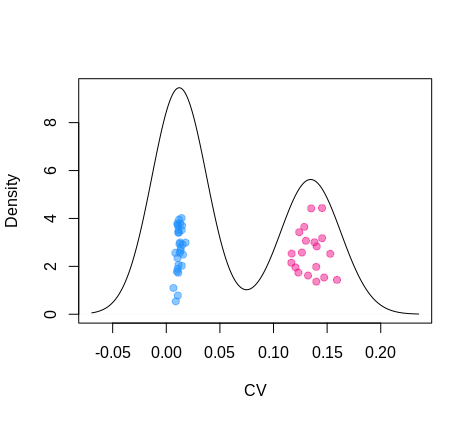
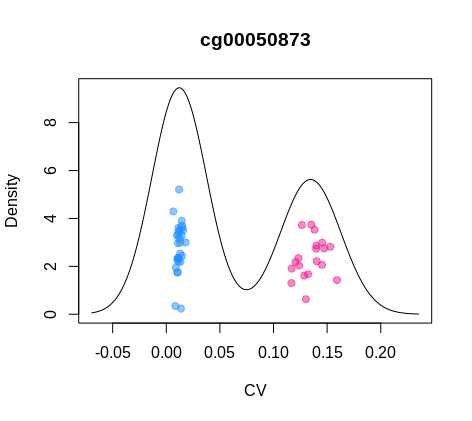
update

diff --git a/README.md b/README.md
@@ -12,10 +12,9 @@
 
 ## Why UMtools? What is the purpose of this tutorial?
 
-There are a large variety of R-packages available to analyze data from Illumina DNA methylation microarrays. In order to ease general accesibility, these tend to isolate the user from the raw data and the complex underlying analysis.
-As a result, many users deploy standard pipelines without examining the raw data or critically assessing each step. Unlike available alternatives, UMtools aims to focus on low-level analysis of Illumina DNA methylation microarray data.
+There are a large variety of R-packages available to analyze data from Illumina DNA methylation microarrays. In order to ease general accesibility, these tend to isolate the user from the raw data and the complex underlying analysis. As a result, many users deploy standard pipelines without examining the raw data or critically assessing each step. Unlike available alternatives, UMtools aims to focus on low-level analysis of Illumina DNA methylation microarray data.
 
-With this tutorial we aim to increase the technical accesibility of Illumina's DNA methylation microarrays. We believe that there is more potential stuck at the IDAT file that what is currently being exploited. Particularly, the standard deviation of fluorescence across beads offers huge information for those researchers aiming to understanding the measurement error of the platform.
+With this tutorial we aim to increase the technical accesibility of Illumina's DNA methylation microarrays. We believe that there is more potential at the level of the IDAT file than what is currently being exploited. Particularly, the standard deviation of fluorescence across beads offers huge information for those researchers aiming to understanding the measurement error of the platform.
 
 ## Tested on
 
@@ -62,7 +61,7 @@ help(gc)
 gc()
 ```
 
-## A word on the Beadchip microarray technology and 450K probes: 
+## A word on the Beadchip microarray technology and the probes on the 450K
 
 The microarray itself consists of a silica substrate with uniformly interspaced microwells.
 Hundreds of thousands of copies of a specific oligonucleotide lie on the surface of silica beads.
@@ -111,6 +110,9 @@ As well, some probes target SNPs, included for assessing sample mix-up (n = 65):
 Finally, there 473 orphan probes, placed on the array for unknown purposes. In total, that makes:
 
     473 + 25*2 + 40 + 848 + 46,289 * 2 + 89,187 * 2 + 350,036 = 622,399 probes
+
+
+## The 450K protocol
 
 
 
@@ -168,11 +170,11 @@ head(example$Quants)
 We particularly highlight the standard deviation of fluorescence intensities, as it is highly valuable and has rarely made it to the literature.
 
 
-## Extracting intensity matrices
+## Extracting fluorescence intensity matrices
 
-The minfi R-package is a massive library that has set the standards of quality in epigenomics. 
-However, its extensive use of S4-object oriented language can make it hard for users to find and repurpose functions.
-In this section, we have gathered together handy pieces of code for analysis of raw fluorescence intensities to ease the painstacking journey through minfi's dense documentation.
+The Bioconductor-based **minfi** library is a huge R-package that has set the standards of quality in methylomics data analysis. Though it contains a vast amount of code that could find other applications, its deep encapsullation via an S4 object-oriented implementation can make it hard for users to find and repurpose low-level functions, especially unexported functions, which are not even on the documentation. As a result, minfi is designed to run as a standarized pipeline rather than adaptable toolset.
+
+Given that UMtools depends on some basic processing operations already established in the minfi library, we have compiled in this tutorial some handy functions to ease the painstacking journey through minfi's dense documentation. 
 
 We firstly load all required libraries:
 
@@ -186,9 +188,10 @@ library(modes)
 library(EMCluster)
 library(dbscan)
 library(Sushi)
+library(UMtools)
 ```
 
-To read all IDAT files in a directory, we use the *read.metharray.exp* function. If additionally, we intend
+To read all IDAT files in a directory, we use the *minfi::read.metharray.exp* function. If additionally, we intend
 to read additional information such as the number of beads or the standard deviation of the fluorescence
 intensity channels, we will need to set the *extended* argument to TRUE.
 
@@ -318,7 +321,7 @@ M = import_bigmat("2020-06-19_M.txt", nThread = 4)
 
 ## Quickly importing phenotypes with GEOquery
 
-GEOquery allows to parse phenotypes from the GEO database in minimum number of lines of code:
+In addition, GEOquery allows to parse phenotypes from the GEO database in minimum number of lines of code:
 
 ```r
 setwd('/media/ben/DATA/Ben/1_evCpGs/data/aging_children/GSE104812_RAW/')
@@ -335,42 +338,45 @@ pheno <- pheno[match(pheno$GEO_ID, IDAT_IDs),] # Make sure samples in pheno are 
 
 ## UMtools in action
 
-UMtools was initially developed to characterise the effects of genetic artefacts on the fluorescence intensity signals of Illumina's DNA methylation microarrays. But we soon realized its potential for exploration of the behaviour of any probe.
+UMtools was initially developed to characterise the influence of genetic artefacts on the fluorescence intensity signals of Illumina's DNA methylation microarrays. But its use for exploring the behaviour of probes can be further extended to any probe.
 
-Moving from univariate methylation value to the bivariate the U/M plane offers not only a gain of resolution but also, the possibility to distinguish probe failure from intermediate methylation: when a probe fails, background fluorescence is acquired in both channels of roughly the same scale; as a result the ratio to the total intensity tends to 50 %. For example, this probe targets the Y-chromosome and hence fails in females given rise to beta-values tending towards 0.5:
+Moving from univariate methylation value to the bivariate the U/M plane not only offers a gain of resolution, but also the possibility to distinguish probe failure from intermediate methylation: when a probe fails, background fluorescence is acquired in both channels of roughly the same scale; as a result the ratio to the total intensity tends to 50 %. For example, the following probe targets the Y-chromosome and hence fails in females, giving rise to beta-values tending towards 0.5 (slightly skewed to the left by the established offset):
 ```r
-density_jitter_plot(beta_value, "cg00026186", pheno$sex)
+density_jitter_plot(beta_value, "cg00050873", pheno$sex)
 ```
 ![Alt text](img/jitter_betaval.png?raw=true "cg00026186 U/M plot")
 
-However, in the UM-plane failed samples cluster at the origin:
+Unlike on the methylation scale, failed samples cluster at the origin of the UM-plane:
 ```r
 UM_plot(M = M_U$M, U = M_U$U, CpG = "cg00050873", sex = pheno$sex)
 ```
 ![Alt text](img/UM.png?raw=true "cg00050873 U/M plot")
 
+UM plots wide variety of phenomena such as:
+
+
+
 
 ### Bivariate Gaussian Mixture Models (bGMMs)
+
+The formation of clusters in the UM plane is a consistent but not exclusive feature of a genetic artefacts.
 
 
 ```r
 set.seed(2); bGMM(M_U$M, M_U$U, "cg03398919", K = 2)
 ```
-
 ![Alt text](img/bGMM2.png?raw=true "cg03398919 bGMM")
 
 
 ```r
 set.seed(3); bGMM(M_U$M, M_U$U, "cg00814218", K = 3)
 ```
-
 ![Alt text](img/bGMM3.png?raw=true "cg00814218 bGMM")
 
 
 ```r
 set.seed(2); bGMM(M_U$M, M_U$U, "cg27024127", K = 4)
 ```
-
 ![Alt text](img/bGMM4.png?raw=true "cg27024127 bGMM")
 
 
@@ -415,17 +421,17 @@ Kcall_CpG("cg15771735", M_U$M, M_U$U, minPts = 5, reach = seq(0.99, 1.01, 0.01))
 ```
 
 ```r
-Kcall_CpG("cg03398919", M_U$M, M_U$U, minPts = 5, reach = seq(0.99, 1.01, 0.01)) # K = 2
+Kcall_CpG("cg03398919", M_U$M, M_U$U, minPts = 5, reach = seq(0.99, 1.01, 0.01))
 # [1] 2
 ```
 
 ```r
-Kcall_CpG("cg00814218", M_U$M, M_U$U, minPts = 5, reach = seq(0.99, 1.01, 0.01)) # K = 3
+Kcall_CpG("cg00814218", M_U$M, M_U$U, minPts = 5, reach = seq(0.99, 1.01, 0.01))
 # [1] 3
 ```
 
 ```r
-Kcall_CpG("cg27024127", M_U$M, M_U$U, minPts = 5, reach = seq(0.99, 1.01, 0.01)) # K = 4
+Kcall_CpG("cg27024127", M_U$M, M_U$U, minPts = 5, reach = seq(0.99, 1.01, 0.01))
 # [1] 4
 ```
 
